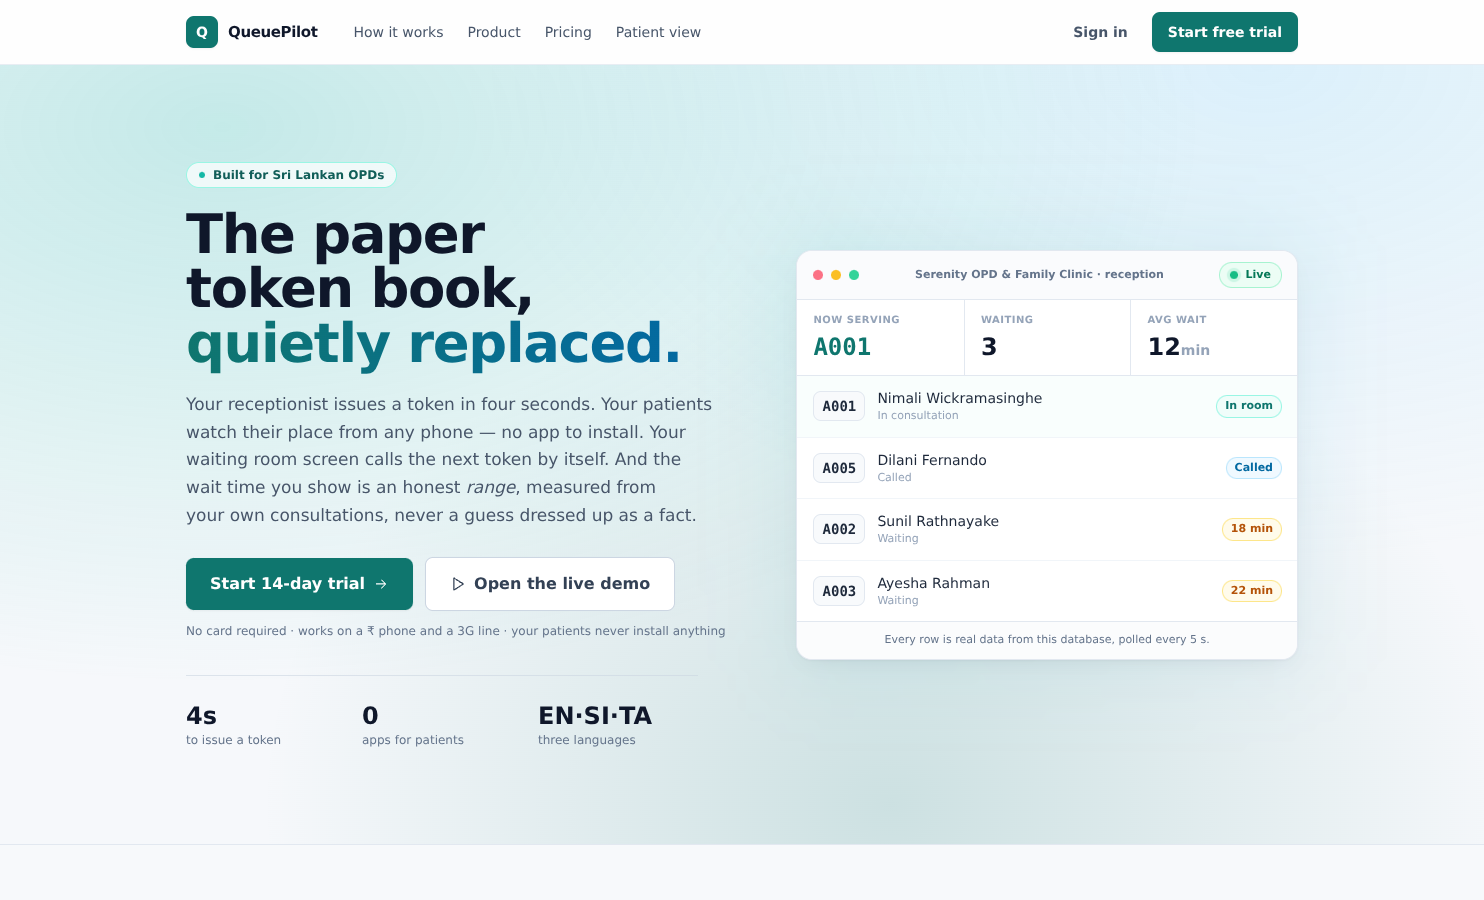
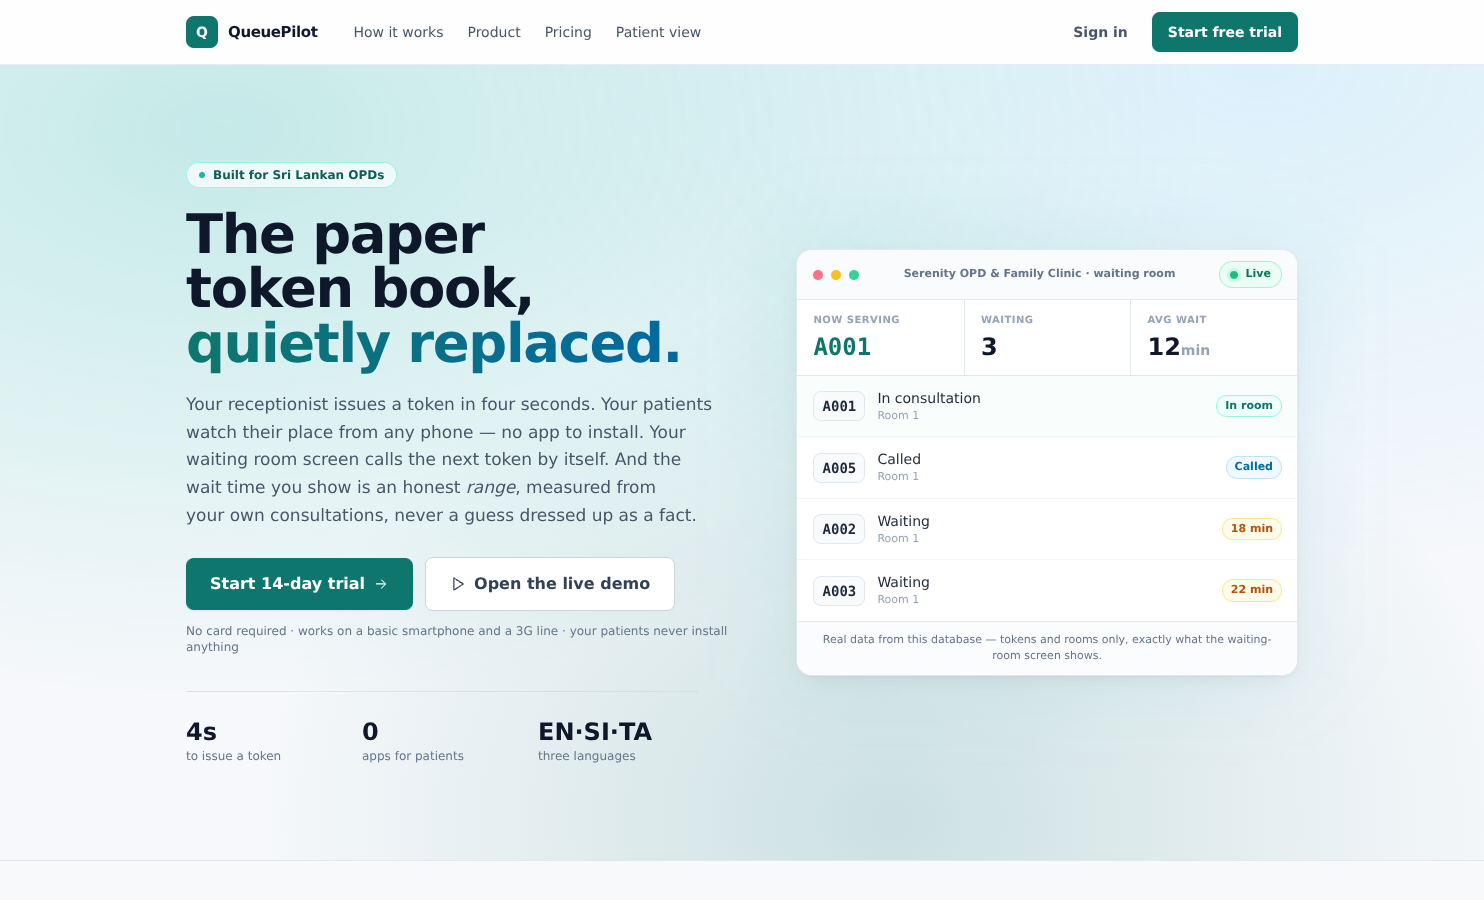
Stop the public homepage from exposing patient names
The landing page's live demo panel selected `p.full_name` and printed real
patient names on an unauthenticated marketing page anyone can open or
screenshot. The same page's own FAQ promises "tokens and room numbers only. No
names, no specialties, no phone numbers", and the feature list says the waiting
room shows "tokens and rooms only" - so the panel contradicted the product's
stated privacy rule in the most public place it has.

The patients join is removed entirely rather than just dropping the print, so
the name is not reachable from this view at all. Rows now show the token, its
status and the room, which is exactly the projection the waiting-room TV uses;
the panel header says "waiting room" instead of "reception" to match. The
tiebreak moved from row id to token_no so the demo reads in the same order the
real board does.

Two copy corrections in the same panel: the footer claimed the rows were
"polled every 5 s" but the landing has no poll hook, so that was untrue; and the
hero read "works on a ₹ phone", a stray rupee sign where a number had been lost.

A regression test asserts the view neither selects a name nor joins patients,
and carries no phone number or track token. Comments are stripped before the
assertions so the docblock explaining the rule cannot satisfy them.

This is the first change to queuepilot/ in this branch, made on request. It is a
privacy fix, not design work; no styling, layout or asset was touched. The
[…]

diff --git a/queuepilot/resources/views/pages/landing.php b/queuepilot/resources/views/pages/landing.php
@@ -2,11 +2,19 @@
 use App\Core\Db;
 $plans = Db::all('SELECT * FROM plans ORDER BY sort_order');
 $demoQueue = Db::one("SELECT q.*, c.name AS clinic_name, c.slug FROM queues q JOIN clinics c ON c.id=q.clinic_id WHERE c.slug='serenity' ORDER BY q.id LIMIT 1");
+// This panel is on an unauthenticated marketing page that anyone can open or
+// screenshot, so it shows the same projection the waiting-room TV does: tokens
+// and rooms, never a patient name. The patients join is deliberately absent —
+// the name must not be reachable here, not merely unprinted.
 $liveRows = $demoQueue ? Db::all(
-    "SELECT e.token_label, e.status, p.full_name FROM queue_entries e JOIN patients p ON p.id=e.patient_id
+    "SELECT e.token_label, e.status, r.name AS room_name
+      FROM queue_entries e
+      JOIN queues q ON q.id = e.queue_id
+      LEFT JOIN doctors d ON d.id = q.doctor_id
+      LEFT JOIN rooms r ON r.id = d.room_id
       WHERE e.queue_id = ? AND e.status IN ('waiting','called','in_consultation')
       ORDER BY CASE e.status WHEN 'in_consultation' THEN 0 WHEN 'called' THEN 1 ELSE 2 END,
-               e.priority DESC, e.id LIMIT 4",
+               e.priority DESC, e.token_no LIMIT 4",
     [$demoQueue['id']]
 ) : [];
 ?>
@@ -84,7 +92,7 @@ $liveRows = $demoQueue ? Db::all(
       </div>
 
       <p class="mt-3 text-xs text-slate-500">
-        No card required · works on a ₹ phone and a 3G line · your patients never install anything
+        No card required · works on a basic smartphone and a 3G line · your patients never install anything
       </p>
 
       <dl class="mt-9 grid max-w-lg grid-cols-3 gap-4 border-t border-slate-300/60 pt-6">
@@ -104,7 +112,7 @@ $liveRows = $demoQueue ? Db::all(
             <span class="h-2.5 w-2.5 rounded-full bg-amber-400"></span>
             <span class="h-2.5 w-2.5 rounded-full bg-emerald-400"></span>
           </div>
-          <p class="text-[11px] font-semibold text-slate-500"><?= e($demoQueue['clinic_name'] ?? 'Live demo') ?> · reception</p>
+          <p class="text-[11px] font-semibold text-slate-500"><?= e($demoQueue['clinic_name'] ?? 'Live demo') ?> · waiting room</p>
           <span class="live-pill"><span class="pulse-dot"><span class="relative inline-flex h-2 w-2 rounded-full bg-emerald-500"></span></span>Live</span>
         </div>
 
@@ -128,8 +136,8 @@ $liveRows = $demoQueue ? Db::all(
             <div class="flex items-center gap-3 px-4 py-3 <?= $i === 0 ? 'bg-teal-50/40' : '' ?>">
               <span class="token-chip"><?= e($r['token_label']) ?></span>
               <div class="min-w-0 flex-1">
-                <p class="truncate text-sm font-medium text-slate-800"><?= e($r['full_name']) ?></p>
-                <p class="text-[11px] text-slate-400"><?= e(App\Domain\Queue\QueueStateMachine::meta($r['status'])['label']) ?></p>
+                <p class="truncate text-sm font-medium text-slate-800"><?= e(App\Domain\Queue\QueueStateMachine::meta($r['status'])['label']) ?></p>
+                <p class="text-[11px] text-slate-400"><?= e($r['room_name'] ?? 'Waiting room') ?></p>
               </div>
               <?php if ($r['status'] === 'in_consultation'): ?>
                 <span class="badge-teal">In room</span>
@@ -145,7 +153,7 @@ $liveRows = $demoQueue ? Db::all(
           <?php endif; ?>
         </div>
         <div class="border-t border-slate-200 bg-slate-50/60 px-4 py-2.5 text-center text-[11px] text-slate-500">
-          Every row is real data from this database, polled every 5 s.
+          Real data from this database &mdash; tokens and rooms only, exactly what the waiting-room screen shows.
         </div>
       </div>
     </div>

diff --git a/queuepilot/tests/run.php b/queuepilot/tests/run.php
@@ -4753,6 +4753,28 @@ Assert::test('revenue is billed at each doctor\'s fee, and says so', function ()
     Assert::same(0.0, round($empty['total'], 2), 'an empty range reports zero');
     Assert::same([], $empty['rows'], 'with no rows rather than a zero-filled fake');
 });
+/* ---- the public homepage must not expose patients ------------------ */
+
+Assert::test('the public landing page cannot reach a patient name', function (): void {
+    $view = (string) file_get_contents(QP_ROOT . '/resources/views/pages/landing.php');
+    // Strip comments first: the docblock explains WHY there is no name, and
+    // grepping the raw file would match that explanation.
+    $code = (string) preg_replace('~/\*.*?\*/~s', '', $view);
+    $code = (string) preg_replace('~^\s*//.*$~m', '', $code);
+
+    // The homepage is unauthenticated and screenshot-able. Its own FAQ promises
+    // "tokens and room numbers only", so the demo panel must match that promise.
+    Assert::true(strpos($code, 'full_name') === false, 'never selects or prints a patient name');
+    Assert::true(strpos($code, 'JOIN patients') === false, 'the patients join is absent, not merely unprinted');
+    // Match data access, not the word: 'phone' is also a legitimate icon name
+    // in the feature list on this page.
+    Assert::true(strpos($code, 'p.phone') === false && strpos($code, 'e.phone') === false
+        && strpos($code, "['phone']") === false, 'no phone number either');
+    Assert::true(strpos($code, 'track_token') === false, 'no capability token that could cancel a visit');
+    Assert::true(strpos($code, 'token_label') !== false, 'it still shows the token, which is the point');
+    Assert::true(strpos($code, 'room_name') !== false, 'and the room, matching the waiting-room screen');
+});
+
 /* ------------------------------------------------------------------ */
 
 $code = Assert::summary();

diff --git a/devtest/README.md b/devtest/README.md
@@ -42,8 +42,7 @@ isolation: it must never show Serenity's patients. It is also the solo-doctor
 fixture: one session, so it exercises the single-doctor board and console.
 
 **8085 is not devtest.** devtest has no landing page, no sign-in and no
-registration by design, so the homepage only exists in the pristine reference
-app. `tools/serve-landing.mjs` runs `../queuepilot`'s own unmodified server on
+registration by design, so the homepage only exists in the reference app. `tools/serve-landing.mjs` runs `../queuepilot`'s own unmodified server on
 8085, changing the transport only:
 
 - strips `X-Frame-Options` and `frame-ancestors` so the Arena preview iframe can
@@ -53,7 +52,16 @@ app. `tools/serve-landing.mjs` runs `../queuepilot`'s own unmodified server on
   `X-Content-Type-Options: nosniff` the browser refuses to guess and prints the
   page as escaped source. devtest's `serve-role.mjs` already carried this fix.
 
-No file under `queuepilot/` is modified; `git status queuepilot/` stays clean.
+The shim modifies no file under `queuepilot/`. The reference app does carry two
+bug fixes made on request, both unrelated to design:
+
+- its homepage demo panel selected `p.full_name` and printed real patient names on
+  an unauthenticated marketing page, while the page's own FAQ promised "tokens and
+  room numbers only". The patients join is now gone entirely, so the name is not
+  reachable rather than merely unprinted; rows show the token, status and room. A
+  test asserts the join stays out.
+- the hero read "works on a ₹ phone" — a stray rupee sign where a number had been
+  lost. Now "works on a basic smartphone".
 
 ```bash
 PORT=8085 node tools/serve-landing.mjs     # from devtest/
